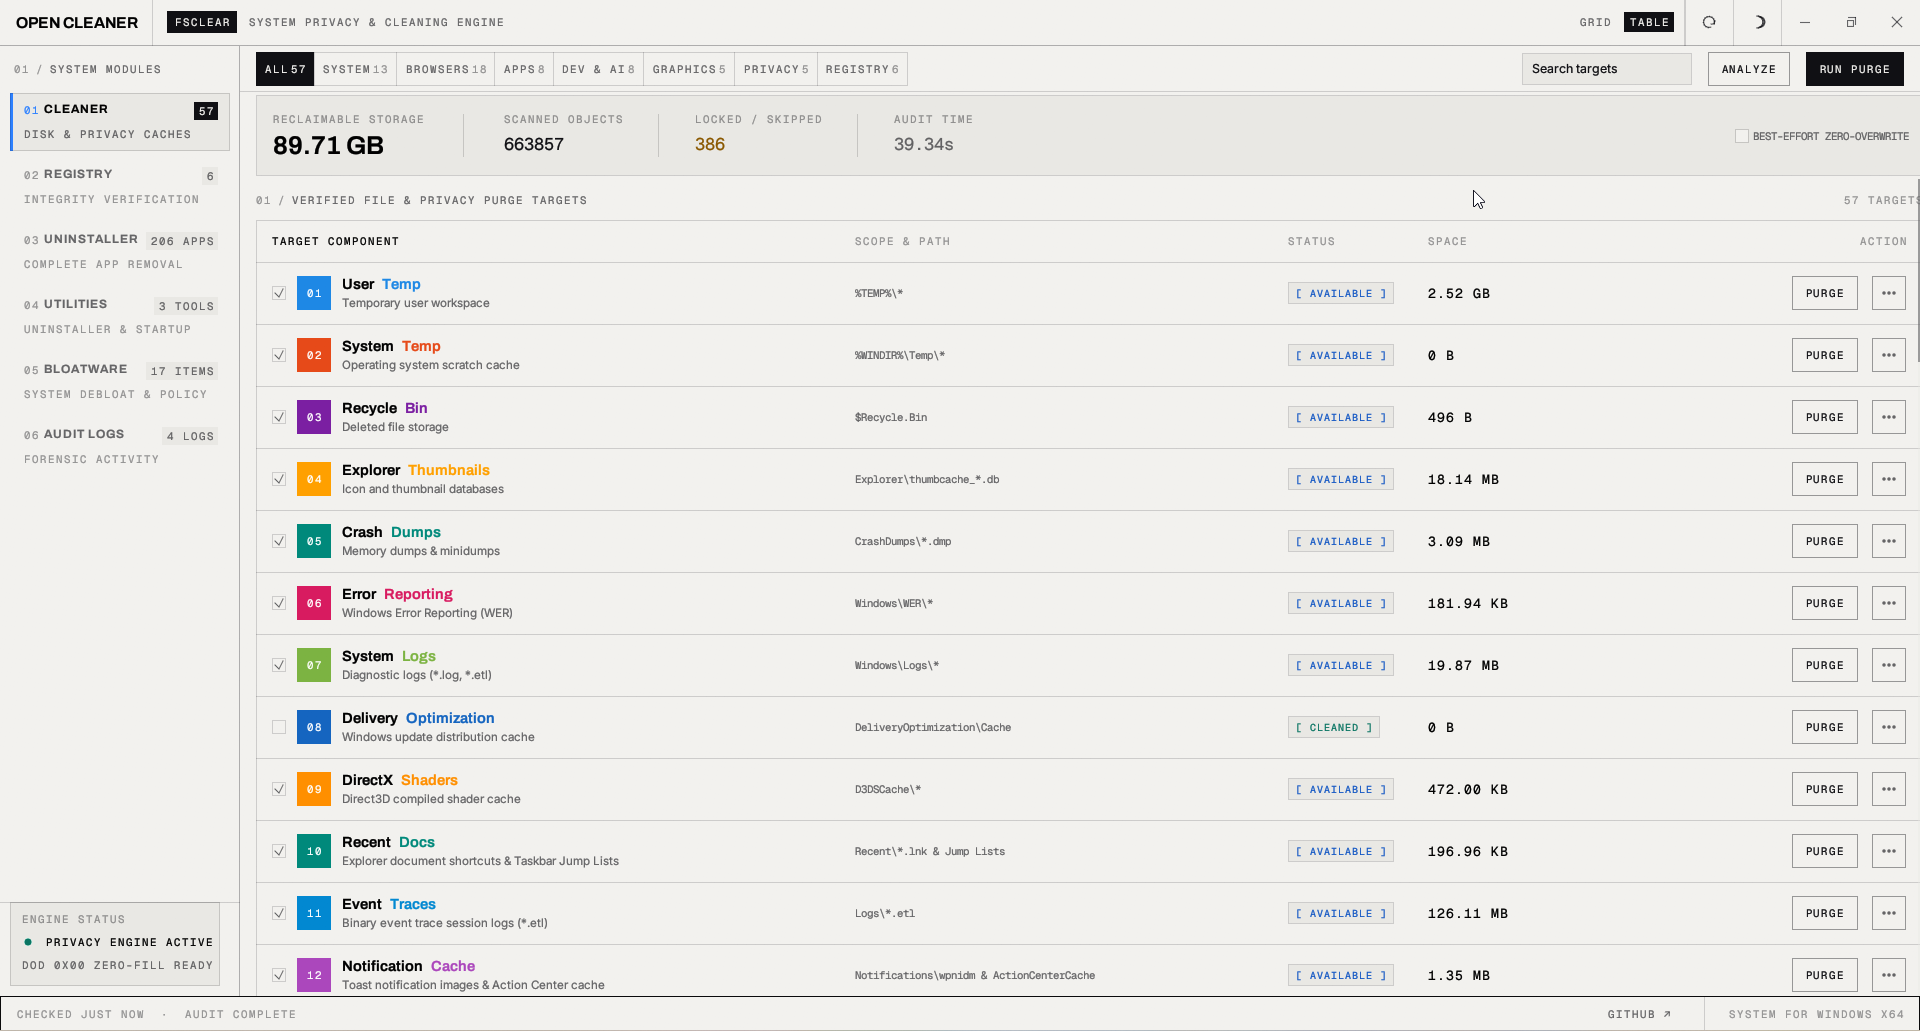
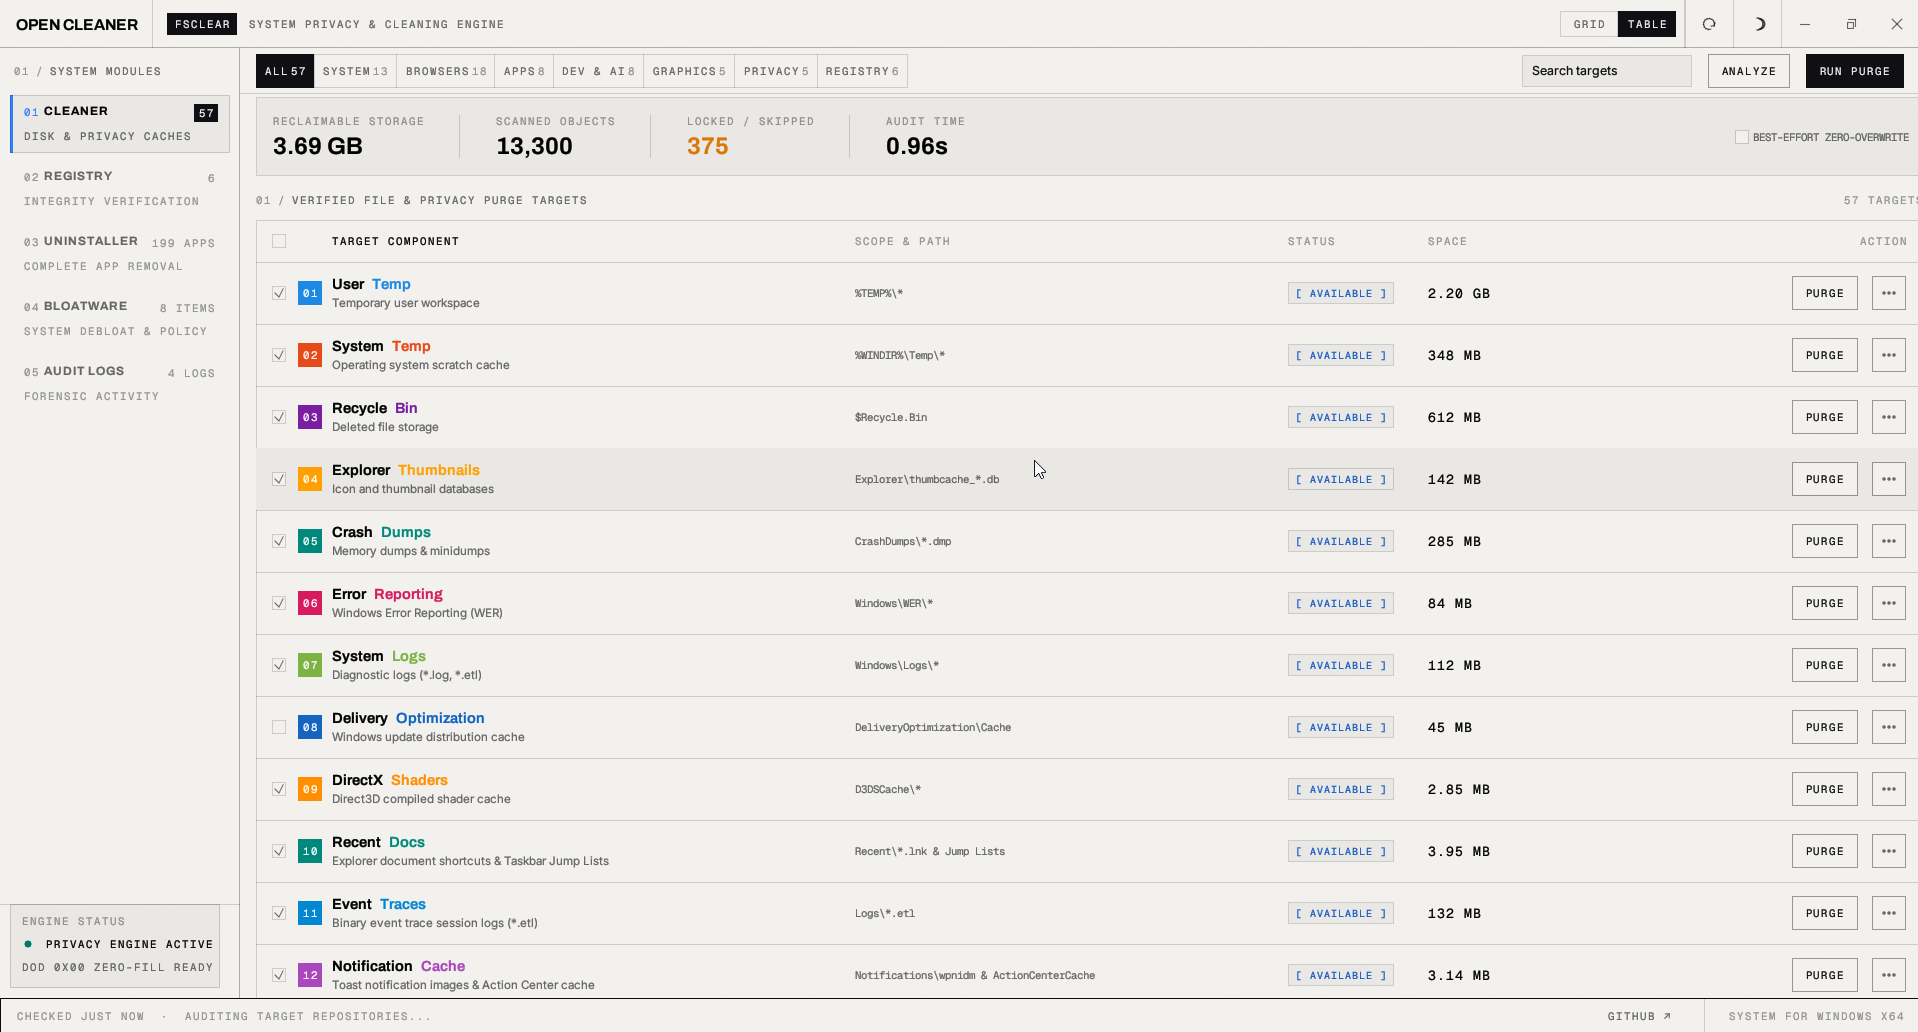
feat: update version to 0.2.1, enhance update error handling, and add GitHub Actions workflow for releases

diff --git a/src/ui/dialogs.rs b/src/ui/dialogs.rs
@@ -655,19 +655,13 @@ impl SystemCleanerApp {
                         ui.set_width(360.0);
                         ui.spacing_mut().item_spacing.y = 6.0;
 
-                        widgets::eyebrow(ui, "UPDATE", "NEW VERSION AVAILABLE", dark);
-                        ui.label(
-                            egui::RichText::new(format!(
-                                "Version {} is ready to install.",
-                                update.version()
-                            ))
-                            .font(egui::FontId::new(13.0, theme::display()))
-                            .color(t.ink_strong),
-                        );
-
-                        if self.updating {
-                            widgets::hud(ui, "DOWNLOADING & INSTALLING UPDATE...", t.warn);
-                        } else {
+                        if let Some(err) = &self.update_error {
+                            widgets::eyebrow(ui, "UPDATE ERROR", "UPDATE FAILED", dark);
+                            ui.label(
+                                egui::RichText::new(err)
+                                    .font(egui::FontId::new(11.0, theme::mono()))
+                                    .color(t.bad),
+                            );
                             ui.horizontal(|ui| {
                                 if widgets::button(
                                     ui,
@@ -682,22 +676,65 @@ impl SystemCleanerApp {
                                 }
                                 if widgets::button(
                                     ui,
-                                    "UPDATE NOW",
+                                    "RELEASES PAGE ↗",
                                     widgets::ButtonKind::Primary,
                                     0.0,
                                     dark,
                                 )
                                 .clicked()
                                 {
-                                    update_now = true;
+                                    let _ = std::process::Command::new("explorer")
+                                        .arg("https://github.com/shafo3i/open-cleaner/releases")
+                                        .spawn();
+                                    dismiss = true;
                                 }
                             });
+                        } else {
+                            widgets::eyebrow(ui, "UPDATE", "NEW VERSION AVAILABLE", dark);
+                            ui.label(
+                                egui::RichText::new(format!(
+                                    "Version {} is ready to install.",
+                                    update.version()
+                                ))
+                                .font(egui::FontId::new(13.0, theme::display()))
+                                .color(t.ink_strong),
+                            );
+
+                            if self.updating {
+                                widgets::hud(ui, "DOWNLOADING & INSTALLING UPDATE...", t.warn);
+                            } else {
+                                ui.horizontal(|ui| {
+                                    if widgets::button(
+                                        ui,
+                                        "DISMISS",
+                                        widgets::ButtonKind::Secondary,
+                                        0.0,
+                                        dark,
+                                    )
+                                    .clicked()
+                                    {
+                                        dismiss = true;
+                                    }
+                                    if widgets::button(
+                                        ui,
+                                        "UPDATE NOW",
+                                        widgets::ButtonKind::Primary,
+                                        0.0,
+                                        dark,
+                                    )
+                                    .clicked()
+                                    {
+                                        update_now = true;
+                                    }
+                                });
+                            }
                         }
                     });
             });
 
         if dismiss {
             self.pending_update = None;
+            self.update_error = None;
         }
         if update_now && !self.updating {
             self.updating = true;

diff --git a/src/updater.rs b/src/updater.rs
@@ -34,16 +34,13 @@ pub fn check_for_update() -> Option<UpdateInfo> {
     if latest > current { Some(info) } else { None }
 }
 
-/// Downloads the latest release, replaces the running binary, and returns `true`
-/// when a new version was installed (the caller should then restart). Returns
-/// `false` if the running build is already current.
-pub fn perform_update() -> Result<bool, String> {
+fn try_update_with_target(target: &str) -> Result<bool, String> {
     let status = self_update::backends::github::Update::configure()
         .repo_owner(REPO_OWNER)
         .repo_name(REPO_NAME)
         .bin_name(BIN_NAME)
         .current_version(env!("CARGO_PKG_VERSION"))
-        .target("x86_64-pc-windows-msvc")
+        .target(target)
         .show_download_progress(false)
         .no_confirm(true)
         .build()
@@ -54,5 +51,24 @@ pub fn perform_update() -> Result<bool, String> {
     match status {
         self_update::Status::Updated(_) => Ok(true),
         self_update::Status::UpToDate(_) => Ok(false),
+    }
+}
+
+/// Downloads the latest release, replaces the running binary, and returns `true`
+/// when a new version was installed (the caller should then restart). Returns
+/// `false` if the running build is already current.
+pub fn perform_update() -> Result<bool, String> {
+    // 1. Try standard target triple (x86_64-pc-windows-msvc for CI matrix archives)
+    match try_update_with_target("x86_64-pc-windows-msvc") {
+        Ok(res) => Ok(res),
+        Err(orig_err) => {
+            // 2. Fallback to direct raw binary asset names (e.g. open-cleaner.exe)
+            let direct_target = if cfg!(windows) {
+                "open-cleaner.exe"
+            } else {
+                "open-cleaner"
+            };
+            try_update_with_target(direct_target).map_err(|_| orig_err)
+        }
     }
 }

diff --git a/src/ui/app.rs b/src/ui/app.rs
@@ -35,6 +35,7 @@ pub struct SystemCleanerApp {
     pub(crate) bloat_state: bloat_view::BloatUiState,
     pub(crate) audit_log: Vec<logs_view::AuditLogEntry>,
     pub(crate) pending_update: Option<UpdateInfo>,
+    pub(crate) update_error: Option<String>,
     pub(crate) updating: bool,
     pub(crate) tx: Sender<WorkerResult>,
     pub(crate) rx: Receiver<WorkerResult>,
@@ -59,6 +60,7 @@ impl Default for SystemCleanerApp {
             bloat_state: bloat_view::BloatUiState::default(),
             audit_log: Vec::new(),
             pending_update: None,
+            update_error: None,
             updating: false,
             tx,
             rx,

diff --git a/src/ui/conductor.rs b/src/ui/conductor.rs
@@ -567,7 +567,12 @@ impl SystemCleanerApp {
                         }
                         std::process::exit(0);
                     } else {
-                        self.pending_update = None;
+                        if message == "already up to date" {
+                            self.pending_update = None;
+                            self.update_error = None;
+                        } else {
+                            self.update_error = Some(message.clone());
+                        }
                         self.metrics.status_text = format!("UPDATE: {message}");
                     }
                 }

diff --git a/src/tests/gui_state.rs b/src/tests/gui_state.rs
@@ -203,3 +203,4 @@ fn uninstaller_progress_messages_update_bar_and_completion_modal() {
     );
     assert!(app.uninstaller_state.last_report.is_some());
 }
+
